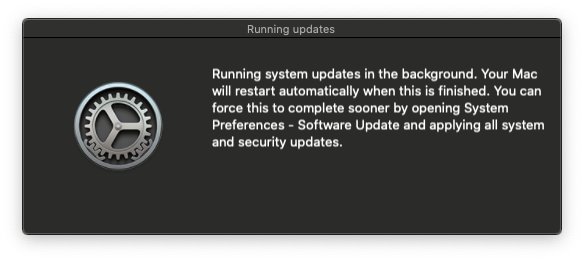
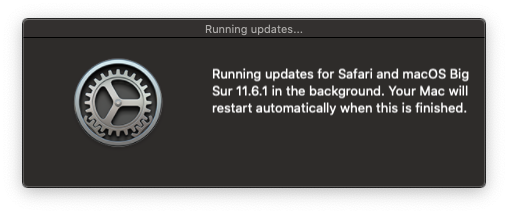
removed duplicate version string if a macOS update is in update list
- removed version string when a "macOS" update is included in the list of pending updates, as those updates tend to include a version number in the title string
- changed default `INSTALL_BUTTON` value to "Install" to match script name and docs
- added `$DEFER_BUTTON` mention to default `MSG_ACT_OR_DEFER` text for consistent messaging
- moved `killall jamfHelper` to start of Apple Silicon alert loop to prevent the alert from dismissing while the script repeats the check for pending updates
- updated all screenshots to represent current default dialogs and script behavior
- removed desktop screenshot from README
- adjusted indentation spacing for consistency

Changed region(s): [[0.0295, 0.0561, 0.9744, 0.9252], [0.1181, 0.2523, 0.3248, 0.7009]]

diff --git a/README.md b/README.md
@@ -2,8 +2,6 @@
 
 This framework will enforce the installation of pending Apple security updates on Jamf Pro-managed Macs. Users will have the option to __Install__ or __Defer__. After a specified amount of time passes, the Mac will be prompted to install the updates, then restart automatically if any updates require it.
 
-![Install or Defer prompt](img/install-or-defer-fullscreen.png)
-
 This workflow is most useful for updates that require a restart and include important security-related patches (e.g. macOS Catalina 10.15.7 Supplemental), but also applies to security updates that don't require a restart (e.g. Safari 14.0.3). Basically, anything Software Update marks as "recommended" or requiring a restart is in scope.
 
 This framework is distributed in the form of a [munkipkg](https://github.com/munki/munki-pkg) project, which allows easy creation of a new installer package when changes are made to the script or to the LaunchDaemon that runs it (despite the name, packages generated with munkipkg don't require Munki; they work great with Jamf Pro). See the [Installer creation](#installer-creation) section below for specific steps on creating the installer for this framework.
